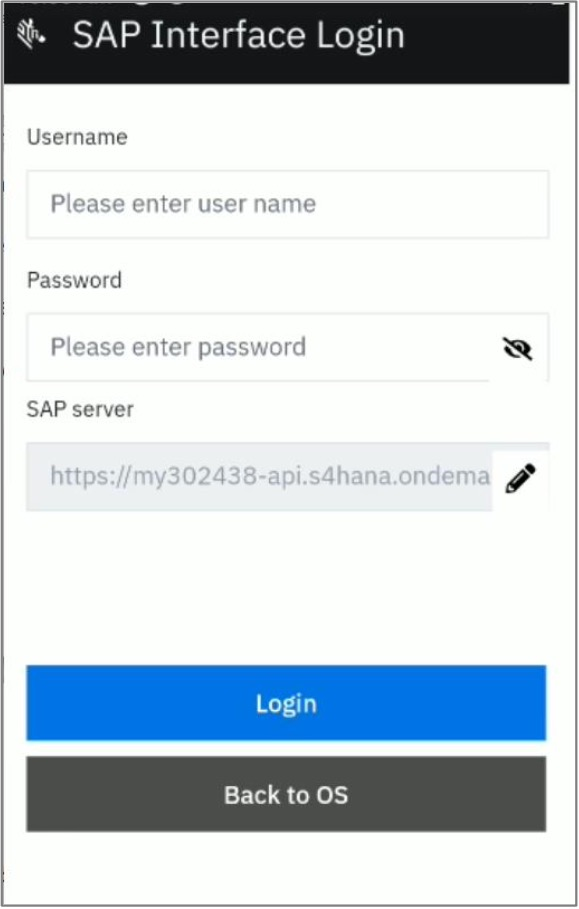
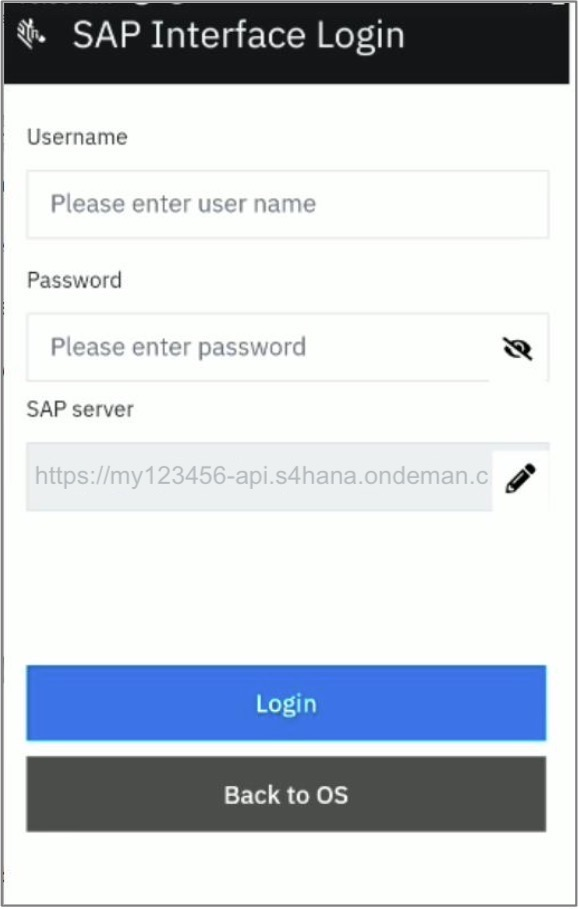
[TUT-83405] EB 3.4 updates, tweex, FINAL

Changed region(s): [[0.0311, 0.7085, 0.9637, 0.8317], [0.0622, 0.4928, 0.7461, 0.5545], [0.8083, 0.5237, 0.8394, 0.5545]]

diff --git a/enterprise-browser/3-4/guide/ewm/index.html b/enterprise-browser/3-4/guide/ewm/index.html
@@ -250,11 +250,15 @@
 
                                         <p></p><h2 id="overview" class="anchor"><a class="heading-anchor" href="#overview"><span></span></a>Overview</h2>
 
-<p><strong>Zebra Picking Plus (ZPP) is an Enterprise Browser-based app for Zebra devices that can execute use cases for SAP Enterprise Warehouse Manager (SAP EWM)</strong>. It connects directly with the <a href="https://www.sap.com/cmp/oth/discover-why-s4hana-cloud-erp/index.html">SAP S/4HANA</a> enterprise resource planning system.</p>
+<p><strong>Zebra Picking Plus (ZPP) is an Enterprise Browser-based app for Zebra devices that can execute use cases for SAP Enterprise Warehouse Manager (SAP EWM)</strong>. It connects directly with the SAP S/4HANA enterprise resource planning system. <strong>SAP EWM is an Android app</strong> that runs on Zebra mobile devices and executes EWM use cases from S/4HANA. Zebra Picking Plus (ZPP) interfaces with EWM to help companies manage the many tasks involved in running a warehouse.</p>
 
-<p>SAP EWM is an Android app that runs on Zebra mobile devices and executes EWM use cases from S/4HANA. Zebra Picking Plus (ZPP) interfaces with EWM to help companies manage the many tasks involved in running a warehouse.  </p>
+<p><i class="fa fa-exclamation-triangle" style="color:#FFA500;"></i> <strong>This guide is covers ZPP setup and usage on Zebra devices</strong>. For information about EWM server setup, please refer to <a href="https://www.sap.com/cmp/oth/discover-why-s4hana-cloud-erp/index.html">SAP S/4HANA documentation</a>. <i class="fa fa-external-link" style="color:#3498DB;"></i> </p>
 
-<p><i class="fa fa-exclamation-triangle" style="color:#FFA500;"></i> <strong>This guide is covers device installation, setup and usage of Zebra Picking Plus solution</strong>, which is implemented as a unique EB SKU with its own licensing requirements. <strong>SAP EWM installation and usage are beyond the scope of this guide</strong>. </p>
+<blockquote>
+  <p><i class="fa fa-exclamation-circle" style="color:#FF0000;"></i> Zebra Picking Plus works only on <a href="https://supportcommunity.zebra.com/s/article/000022440?language=en_US">Zebra SDM660-based devices</a> running Android 11 and <strong>requires purchase of an additional license SKU</strong>. </p>
+</blockquote>
+
+<!-- > <i class="fa fa-exclamation-circle" style="color:#FF0000;"></i> ZPP is acquired and licensed separately from other EB SKUs.  -->
 
 <h3 id="mainzppfunctions" class="anchor"><a class="heading-anchor" href="#mainzppfunctions"><span></span></a>Main ZPP Functions</h3>
 
@@ -305,10 +309,6 @@
 
 <li>German</li>
 </ul>
-
-<blockquote>
-  <p><i class="fa fa-exclamation-circle" style="color:#FF0000;"></i> Zebra Picking Plus works only on <a href="https://supportcommunity.zebra.com/s/article/000022440?language=en_US">Zebra SDM660-based devices</a> running Android 11 and requires purchase of additional licensing. </p>
-</blockquote>
 
 <p><img alt="" style="height:250px" src="eb34_ewm_01.jpg">
 <em>Click image to enlarge; ESC to exit</em>.
@@ -411,7 +411,7 @@
 
 <pre class="prettyprint"><code>
 &lt;SapEwm&gt;
-    &lt;SapUrl value="https://my302 438-api.s4hana.ondemand.com"/&gt;
+    &lt;SapUrl value="https://my123456-api.s4hana.ondemand.com"/&gt;
     &lt;Warehouse value="Z254"/&gt;
     &lt;Resource value = "MOBILE 2"/&gt;
     &lt;Plant value = "1710"/&gt;

diff --git a/enterprise-browser/3-4/guide/about/index.html b/enterprise-browser/3-4/guide/about/index.html
@@ -266,6 +266,8 @@
 
 <h2 id="newinv34" class="anchor"><a class="heading-anchor" href="#newinv34"><span></span></a>New in v3.4</h2>
 
+<p><em>Applies to EB 3.4.0.25</em></p>
+
 <ul>
 <li><strong>Secure deployment of EB configuration files</strong> to newer Zebra devices requires deployment process changes.<br>
 <i class="fa fa-check-circle" style="color:#27AE60;"></i> For details, <strong>please see the <a href="../setup/#iimassdeployment">Mass Deployment</a> and <a href="../setup/#iiimanualdeployment">Manual Deployment</a> sections of the <a href="../setup">EB Set-up Guide</a></strong>.</li>
@@ -285,9 +287,11 @@
 
 <li><strong>Adds <a href="../zwc/#apisforzwc">APIs for secondary display</a></strong> use cases</li>
 
-<li><strong>Introduces <a href="../ewm">Zebra Picking Plus</a></strong>, a warehouse management solution for SAP EWM users</li>
+<li><strong>Introduces <a href="../ewm">Zebra Picking Plus</a></strong>, a warehouse management solution for SAP EWM users (license required)</li>
 
 <li><strong>Enhancements to intent API guide</strong> include <strong>sample code for <a href="../../api/Intent/#passingextrasasnestedbundles">passing extras as nested bundles</a></strong> </li>
+
+<li><i class="fa fa-exclamation-triangle" style="color:#FFA500;"></i> <strong>This version is NOT available from Google Play</strong>.</li>
 </ul>
 
 <!-- 5/23/23- removed per eng

diff --git a/enterprise-browser/3-4/guide/licensing/index.html b/enterprise-browser/3-4/guide/licensing/index.html
@@ -256,9 +256,9 @@
 
 <h3 id="importantlicensinginformation" class="anchor"><a class="heading-anchor" href="#importantlicensinginformation"><span></span></a>Important Licensing Information</h3>
 
-<blockquote>
-  <p><i class="fa fa-check-circle" style="color:#27AE60;"></i> <strong>Enterprise Browser 3.4 (and later) supports licensing through <a href="/zebradna">Zebra DNA Cloud</a></strong>, Zebra's online solution for device staging, software deployment, licensing and asset management. EB licenses can be transferred to DNA Cloud for simpler, centralized administration. Learn more <a href="/zebradna/latest/licensing">about DNA Cloud licensing</a>.</p>
-</blockquote>
+<!-- 5/24/23- temp removed, per eng
+> <i class="fa fa-check-circle" style="color:#27AE60;"></i> **Enterprise Browser 3.4 (and later) supports licensing through [Zebra DNA Cloud](/zebradna)**, Zebra's online solution for device staging, software deployment, licensing and asset management. EB licenses can be transferred to DNA Cloud for simpler, centralized administration. Learn more [about DNA Cloud licensing](/zebradna/latest/licensing). 
+-->
 
 <ul>
 <li><strong>Licenses for Enterprise Browser 3.0.6 (and later) and the MDNA bundle</strong> can be activated using single Activation ID. </li>

diff --git a/enterprise-browser/3-4/guide/index.html b/enterprise-browser/3-4/guide/index.html
@@ -260,10 +260,10 @@
                                 <a href="printingGuide"><span>Printing</span></a>
                             </li>
                             <li>
-                                <a href="sap"><span>SAP ITSmobile</span></a>
+                                <a href="ewm"><span>SAP EWM - Zebra Picking Plus</span></a>
                             </li>
                             <li>
-                                <a href="ewm"><span>SAP EWM - Zebra Picking Plus</span></a>
+                                <a href="sap"><span>SAP ITSmobile</span></a>
                             </li>
                             <li>
                                 <a href="viewport"><span>Viewport</span></a>
